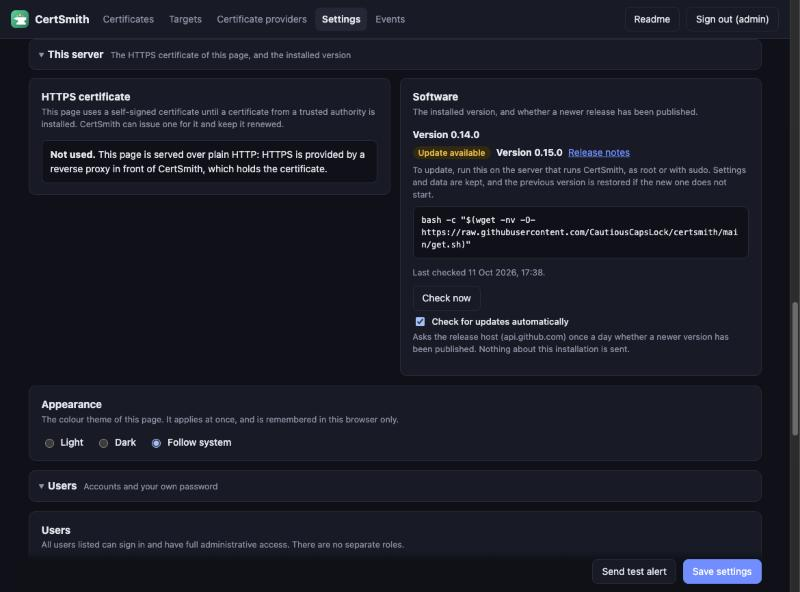
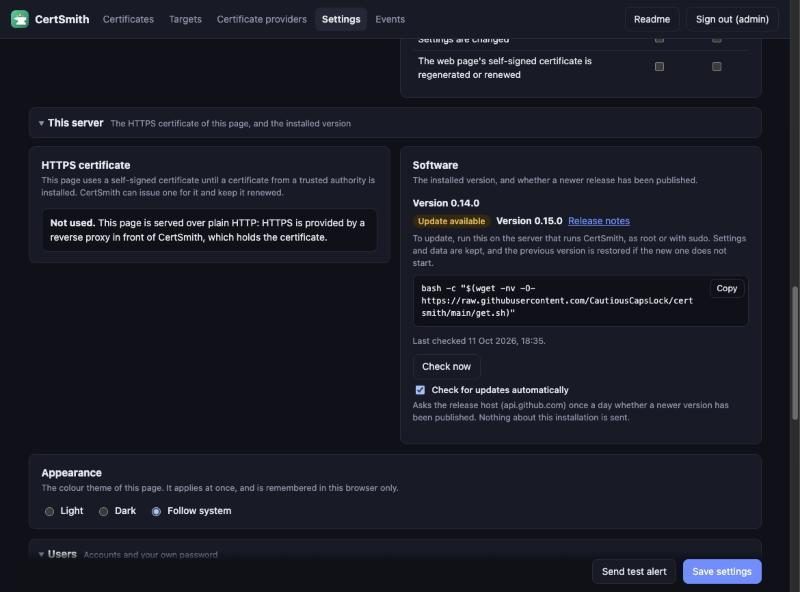
Copy button on the update command; README commands in code blocks
The Software card's update command has a Copy button. It uses the clipboard API where the page is a secure
context and a hidden text box with the older copy command where it is not (a page served over plain HTTP
behind a proxy), and says whether it worked. The README's remaining inline commands are fenced blocks, which
GitHub gives a copy button. The Software screenshot shows the button.

diff --git a/internal/web/static/app.js b/internal/web/static/app.js
@@ -273,6 +273,36 @@ function chipTitled(text, cls, title) { const c = chip(text, cls); c.title = tit
 
 function chip(text, cls) { return h('span', { class: 'chip ' + (cls || '') }, text); }
 
+// Puts text on the clipboard. navigator.clipboard exists only in a secure context (HTTPS or localhost), and
+// this page may be served over plain HTTP behind a proxy, so a hidden text box and the older copy command
+// are the fallback. Resolves to whether it worked.
+async function copyText(text) {
+  try {
+    if (navigator.clipboard && window.isSecureContext) { await navigator.clipboard.writeText(text); return true; }
+  } catch (_) { /* refused: try the fallback */ }
+  const ta = h('textarea', { 'aria-hidden': 'true', readonly: true, style: 'position:fixed;top:-1000px;opacity:0' }, text);
+  document.body.append(ta);
+  ta.select();
+  let ok = false;
+  try { ok = document.execCommand('copy'); } catch (_) { ok = false; }
+  ta.remove();
+  return ok;
+}
+
+// A command to paste into a terminal: shown as text, selectable with one click, with a Copy button.
+function commandBlock(text) {
+  let timer;
+  const btn = h('button', { type: 'button', class: 'btn small ghost copybtn', title: 'Copy the command to the clipboard' }, 'Copy');
+  btn.addEventListener('click', async () => {
+    const ok = await copyText(text);
+    clearTimeout(timer);
+    btn.textContent = ok ? 'Copied' : 'Not copied';
+    toast(ok ? 'Command copied to the clipboard' : 'Could not copy: select the command and copy it yourself', !ok);
+    timer = setTimeout(() => { btn.textContent = 'Copy'; }, 2000);
+  });
+  return h('div', { class: 'cmdwrap' }, h('pre', { class: 'cmd' }, text), btn);
+}
+
 // ---- overview ---------------------------------------------------------------------
 // A device whose certificate is installed by hand (no API to do it): CertSmith only checks what it serves.
 const isManual = kind => !!((schema.targets.find(d => d.kind === kind) || {}).manual);
@@ -2016,7 +2046,7 @@ function renderSettings() {
             link ? h('a', { href: link, target: '_blank', rel: 'noopener' }, 'Release notes') : null));
           kids.push(h('p', { class: 'meta', style: 'margin:6px 0 4px' },
             'To update, run this on the server that runs CertSmith, as root or with sudo. Settings and data are kept, and the previous version is restored if the new one does not start.'));
-          kids.push(h('pre', { class: 'cmd' }, 'bash -c "$(wget -nv -O- https://raw.githubusercontent.com/' + info.repo + '/main/get.sh)"'));
+          kids.push(commandBlock('bash -c "$(wget -nv -O- https://raw.githubusercontent.com/' + info.repo + '/main/get.sh)"'));
         } else if (info.latest) {
           kids.push(h('div', { class: 'swline' }, chip('Up to date', 'ok'),
             h('span', { class: 'meta' }, 'The latest published release is ' + plainVersion(info.latest) + '.')));

diff --git a/internal/web/static/style.css b/internal/web/static/style.css
@@ -181,6 +181,10 @@ details.verbose.setgroup > summary:hover { border-color: var(--muted); }
 /* Settings > Software */
 .swline { display: flex; flex-wrap: wrap; align-items: center; gap: 8px; margin: 2px 0 6px; }
 .swline a { color: var(--accent); }
+/* a command with its Copy button at the top right; the text leaves room for the button */
+.cmdwrap { position: relative; margin: 8px 0 12px; }
+.cmdwrap pre.cmd { margin: 0; padding-right: 76px; }
+.cmdwrap .copybtn { position: absolute; top: 6px; right: 6px; }
 pre.cmd { margin: 8px 0 12px; padding: 10px 12px; border: 1px solid var(--line); border-radius: 8px; background: var(--bg); font: 12px/1.5 var(--mono); white-space: pre-wrap; overflow-wrap: anywhere; user-select: all; }
 
 .authwrap { min-height: 70vh; display: flex; align-items: center; justify-content: center; }

diff --git a/internal/web/static/help.html b/internal/web/static/help.html
@@ -218,7 +218,7 @@
 
 <figure>
   <img src="help/software.jpg" alt="Settings, Software card: installed version, an available update with its install command, and the automatic-check switch">
-  <figcaption>Settings &rarr; <em>Software</em>. When a newer release has been published, the card names it, links to its release notes and shows the command to run on the server.</figcaption>
+  <figcaption>Settings &rarr; <em>Software</em>. When a newer release has been published, the card names it, links to its release notes and shows the command to run on the server, with a <strong>Copy</strong> button.</figcaption>
 </figure>
 
 <h2 id="alerts">Alerts</h2>

diff --git a/README.md b/README.md
@@ -28,7 +28,11 @@ bash -c "$(wget -nv -O- https://raw.githubusercontent.com/CautiousCapsLock/certs
 
 The script downloads the latest release for the host architecture, verifies its SHA-256 checksum, and runs the installer packaged with it. The installer prints the address of the web interface and the fingerprint of its certificate.
 
-Ubuntu normally includes `wget` but not `curl`, so the commands here use `wget`, and the script itself uses `wget` when it is present and `curl` otherwise. Where `curl` is the only tool installed, replace `wget -nv -O-` with `curl -fsSL`. A minimal system with neither needs one first: `apt-get update && apt-get install -y wget`.
+Ubuntu normally includes `wget` but not `curl`, so the commands here use `wget`, and the script itself uses `wget` when it is present and `curl` otherwise. Where `curl` is the only tool installed, replace `wget -nv -O-` with `curl -fsSL`. A minimal system with neither needs one first:
+
+```sh
+apt-get update && apt-get install -y wget
+```
 
 The commands read from GitHub without credentials. If a command returns at once and prints nothing, the download failed: run `wget -nv -O-` with the same address on its own to see the error. A host that cannot reach GitHub can have the release archive copied to it and installed by hand (see [Installation](#installation)).
 
@@ -198,7 +202,11 @@ CGO_ENABLED=0 GOOS=linux GOARCH=amd64 go build -trimpath \
   -ldflags "-s -w -X main.version=0.0.0-dev" -o dist/certsmith-linux-amd64 ./cmd/certsmith
 ```
 
-To run without installing: `go run ./cmd/certsmith -data ./data -listen 127.0.0.1:8443`.
+To run without installing:
+
+```sh
+go run ./cmd/certsmith -data ./data -listen 127.0.0.1:8443
+```
 
 ### Repository layout
 
